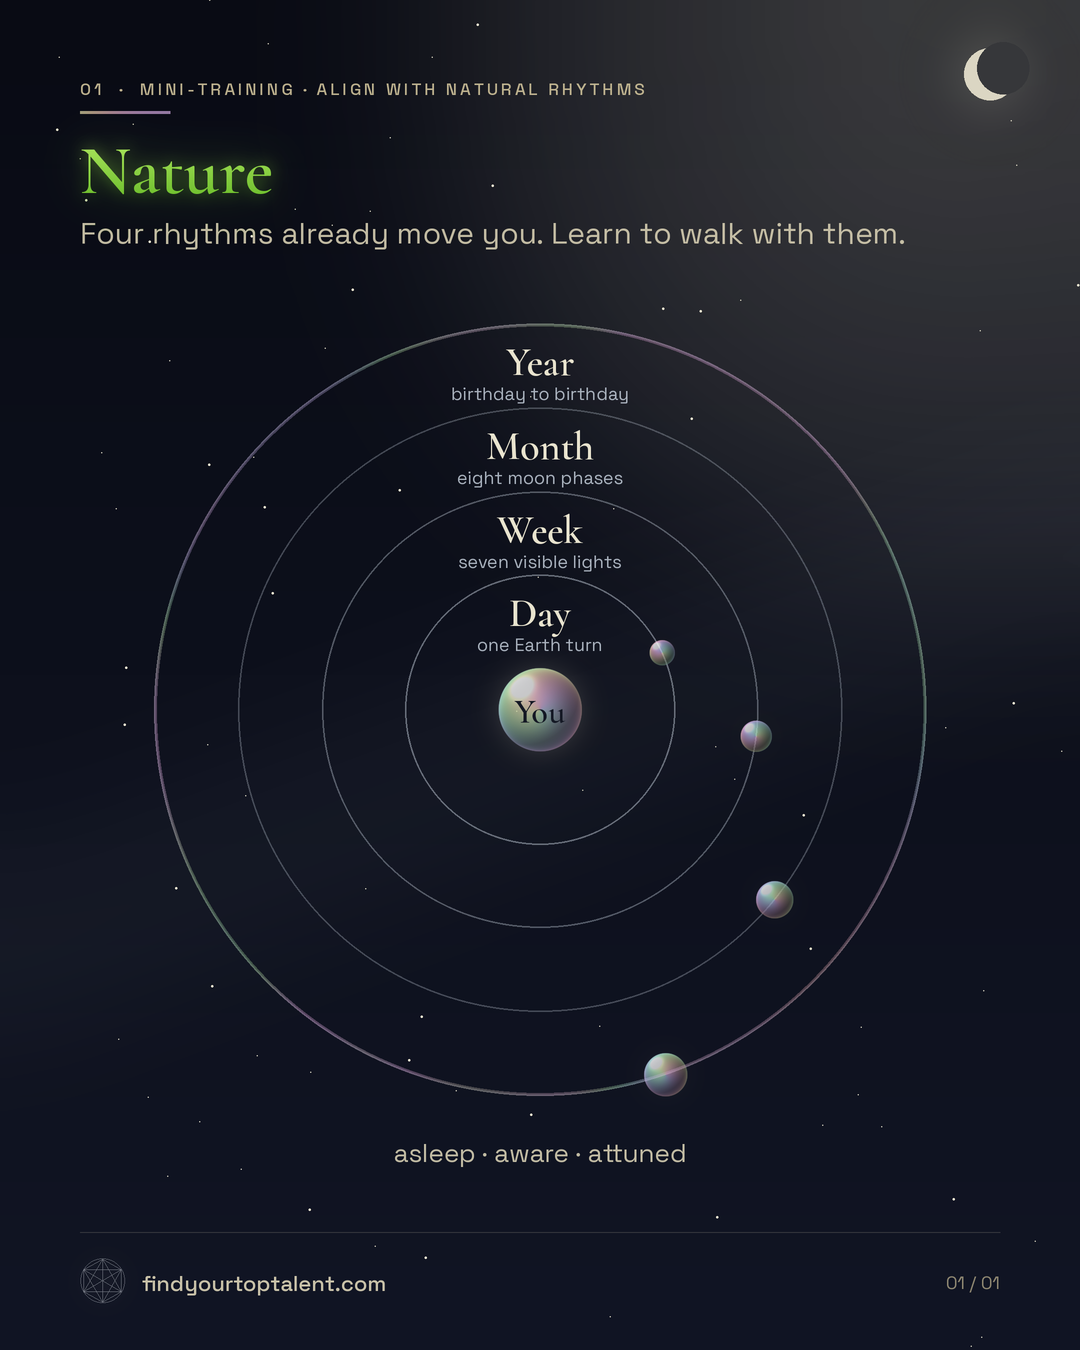
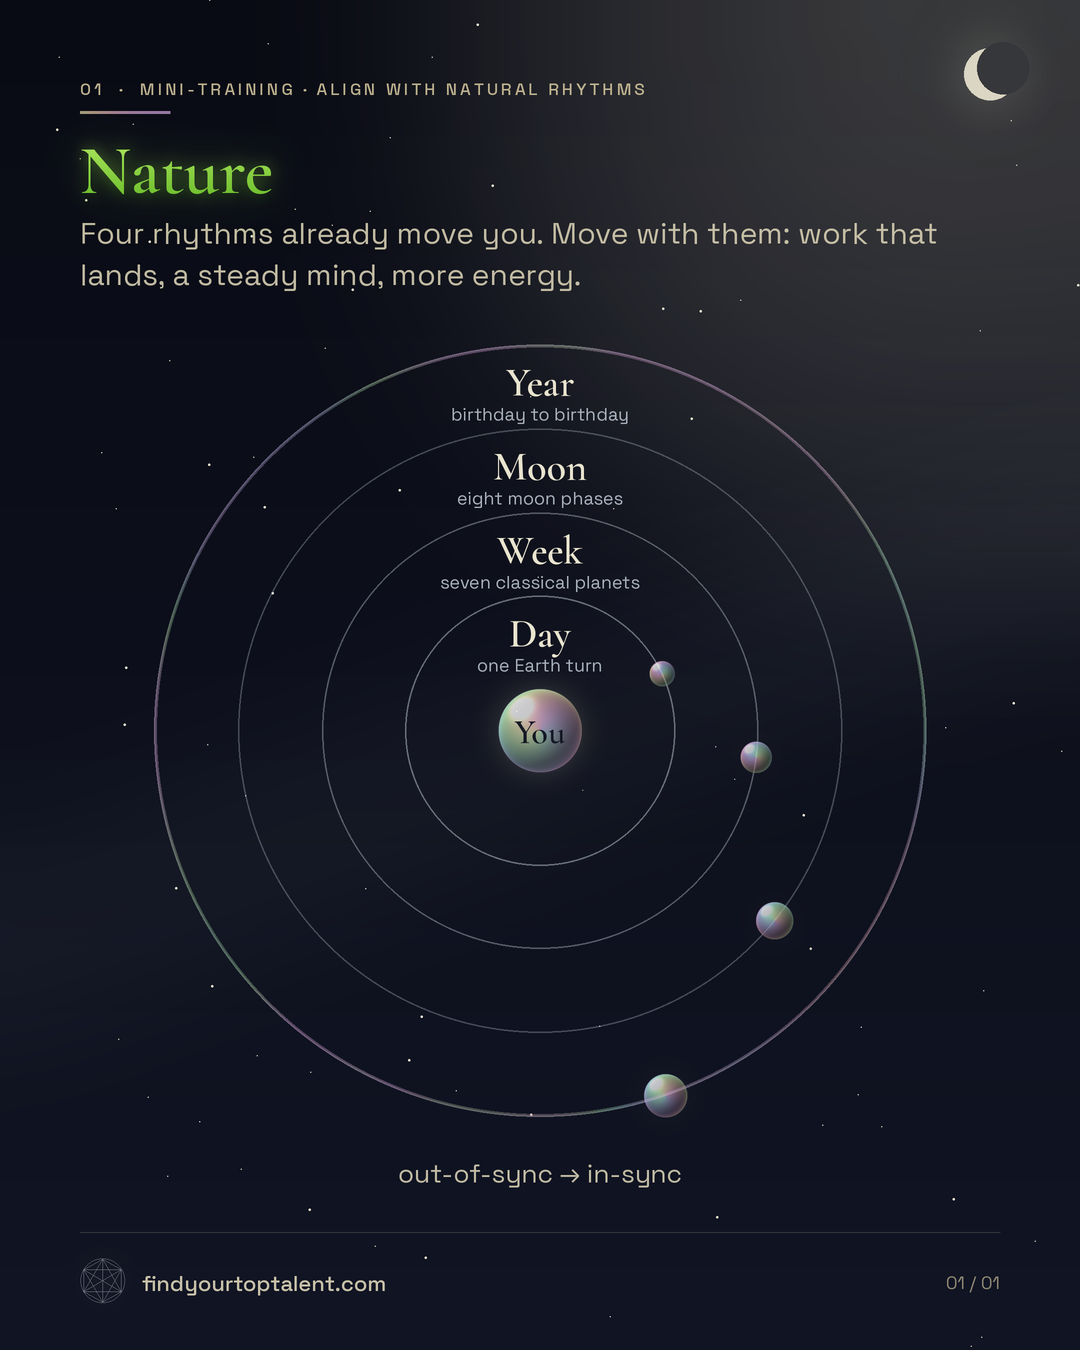
Nature N00 v2: Moon ring, seven classical planets, out-of-sync → in-sync; template: plain result on overview

diff --git a/docs/templates/course-from-source.md b/docs/templates/course-from-source.md
@@ -81,6 +81,7 @@
 - **Roast the architecture before writing episodes** (Nature, 2026-11-26): after steps 1–2, run one roast cycle + crash-test ([roasting.md](./roasting.md)) on result + structure, write architecture v2, then the texts. It caught the uncheckable result and the missing final rite.
 - **Three honesty labels** when a mini-training mixes biology and tradition (Nature, 2026-11-26): *established* · *tradition* · *practice*, one per episode on screen.
 - **End with a rite**: the last Ask AI makes the person produce the result of step 1 about their own life (Nature: "Read your Now").
+- **The overview card states the result in plain words** (Nature, Sasha 2026-11-27): the arc line is the before → after a newcomer gets at once ("out-of-sync → in-sync"), not internal degree names; the caption says what moving with it gives (business, inner state, energy). Open the PNG: lint does not catch a wrapped note line.
 - **After the signature, three tracks in parallel** (Nature, 2026-11-27): (a) videos: NotebookLM by the runbook, then YouTube unlisted; (b) infographics: one kit card per micro-module through an @claude issue; (c) platform: course data file + page through an @claude issue, youtubeIds filled when (a) lands. Keep the style line, focus lines and a production tracker in the content file before the run starts. A driver task carries all three to the end.
 
 ### Applications
